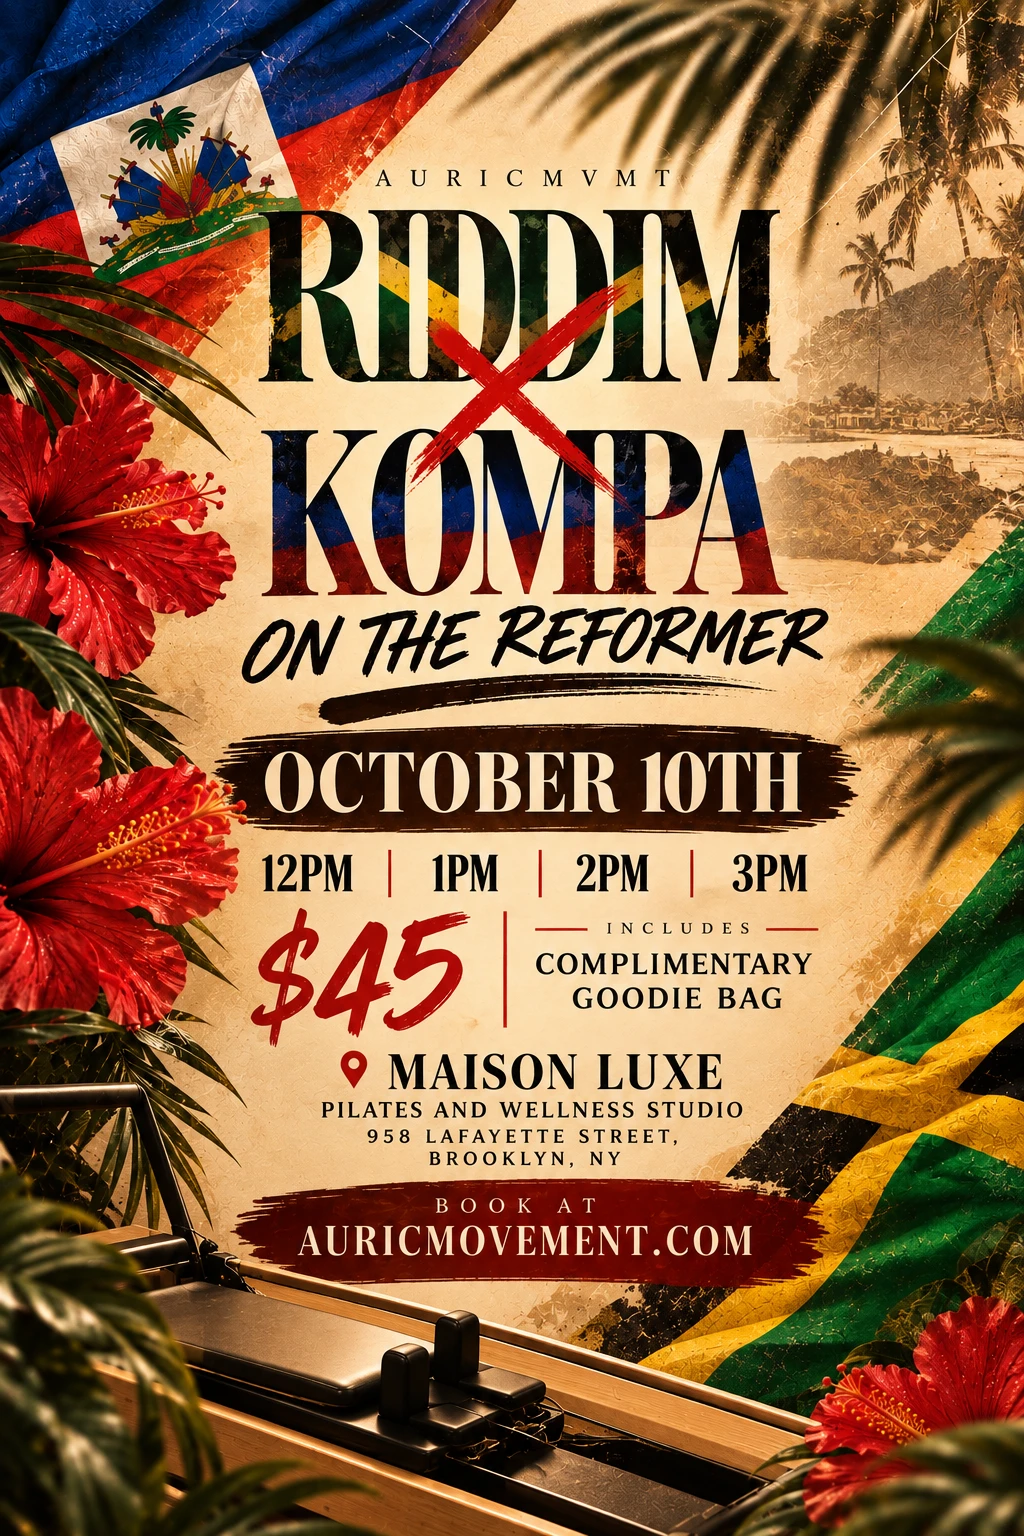
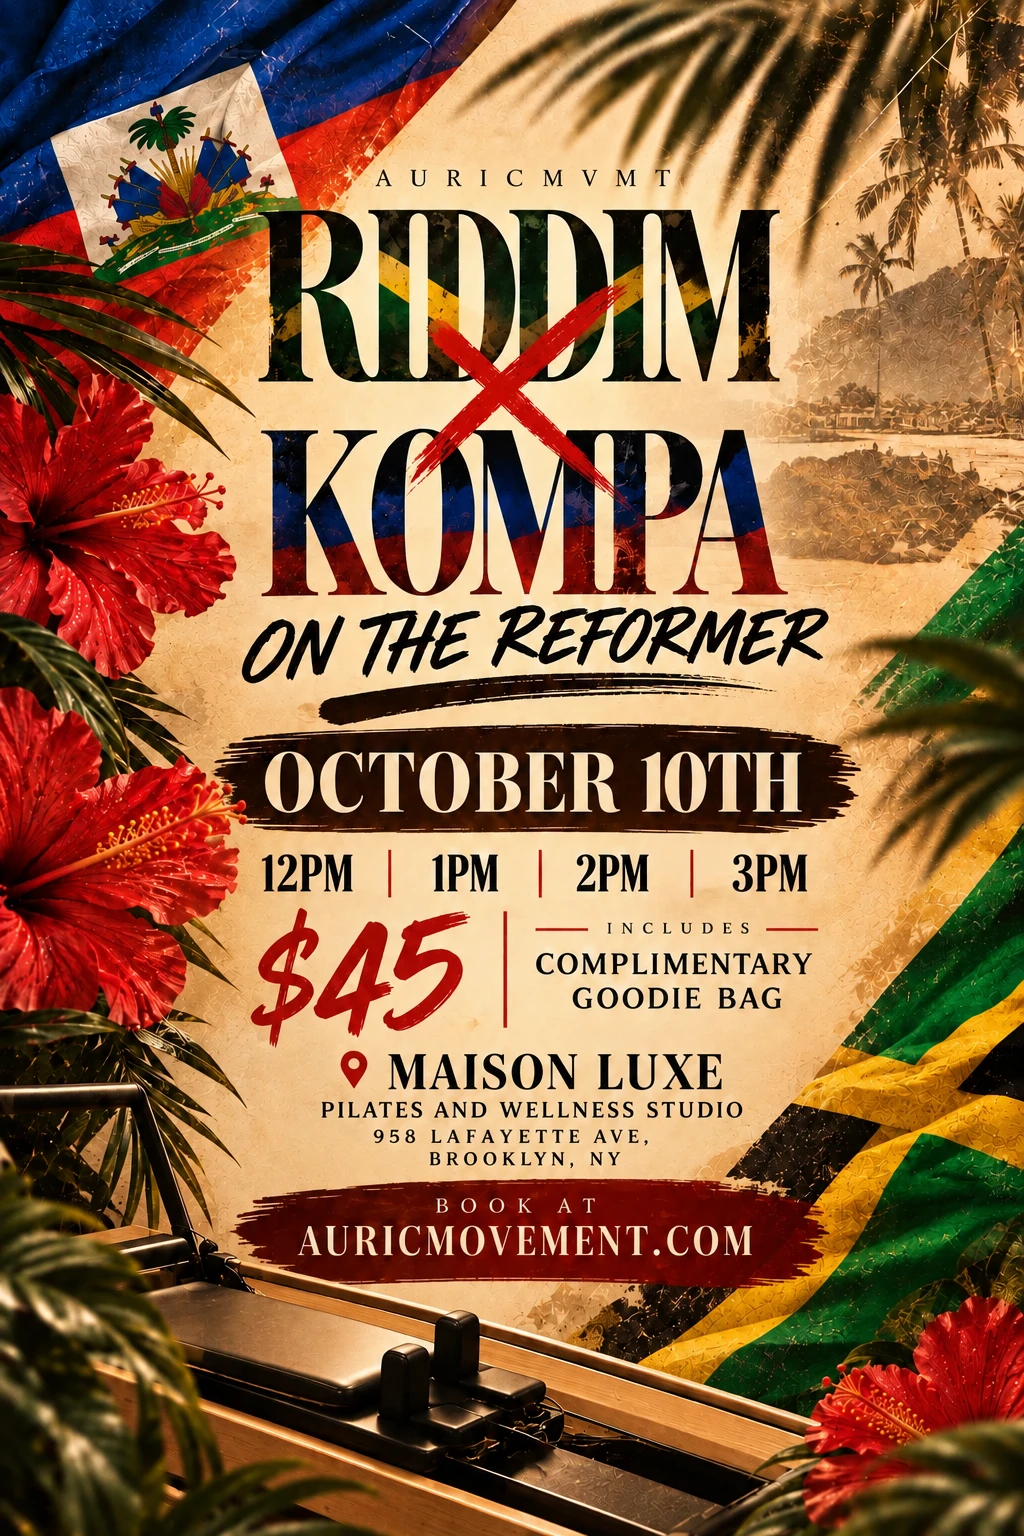
Swap in the new Oct 10 flyer (#503)
Replaces the event-card flyer and rebuilds the JPEG copy the link preview
uses, so a shared link and the site show the same picture.

The new artwork corrects the studio address — it read 958 Lafayette Street,
and Maison Luxe is on Lafayette Ave.

Cache versions bumped (flyer v3 -> v4, share v2 -> v3) on all three
references, including both the og:image and twitter:image tags. Without that
anyone who has already seen the page keeps the old flyer out of cache.

The existing alt text already described this artwork, down to the address and
the four session times, so it is unchanged.

Verified: both files serve 200 at their new versions, and the card image
decodes at the full 1024x1536.

Claude-Session: https://claude.ai/code/session_01C5C3S2hPFNYWpceXrqPaqV

diff --git a/riddim-kompa-oct10/index.html b/riddim-kompa-oct10/index.html
@@ -15,7 +15,7 @@
   <meta property="og:url" content="https://book.auricmovement.com/riddim-kompa-oct10">
   <meta property="og:title" content="Riddim &#215; Kompa on the Reformer &#10022; Brooklyn &mdash; Oct 10">
   <meta property="og:description" content="Haitian &amp; Jamaican inspired reformer Pilates. Saturday, October 10 &middot; four sessions (12, 1, 2 &amp; 3 PM) &middot; Maison Luxe Pilates &amp; Wellness, Brooklyn NY. $45 &middot; 45 minutes &middot; complimentary goodie bag.">
-  <meta property="og:image" content="https://book.auricmovement.com/riddim-kompa-oct10-share.jpg?v=2">
+  <meta property="og:image" content="https://book.auricmovement.com/riddim-kompa-oct10-share.jpg?v=3">
   <meta property="og:image:width" content="1024">
   <meta property="og:image:height" content="1536">
   <meta property="og:image:alt" content="Riddim x Kompa on the Reformer, hosted by Auric Movement at Maison Luxe Pilates & Wellness, Brooklyn. Saturday, October 10, 12, 1, 2 and 3 PM. $45 per person, 45 minutes. Two islands, one rhythm.">
@@ -24,7 +24,7 @@
   <meta name="twitter:card" content="summary_large_image">
   <meta name="twitter:title" content="Riddim &#215; Kompa on the Reformer &#10022; Brooklyn &mdash; Oct 10">
   <meta name="twitter:description" content="Haitian &amp; Jamaican inspired reformer Pilates. Saturday, October 10 &middot; four sessions (12, 1, 2 &amp; 3 PM) &middot; Maison Luxe Pilates &amp; Wellness, Brooklyn NY. $45 &middot; 45 minutes &middot; complimentary goodie bag.">
-  <meta name="twitter:image" content="https://book.auricmovement.com/riddim-kompa-oct10-share.jpg?v=2">
+  <meta name="twitter:image" content="https://book.auricmovement.com/riddim-kompa-oct10-share.jpg?v=3">
 
   <link rel="canonical" href="https://book.auricmovement.com/?book=reformer-o10">
 

diff --git a/index.html b/index.html
@@ -3220,7 +3220,7 @@
       <button type="button" id="event-card-reformer-o10" class="bq-event scroll-reveal" data-event-id="riddim-kompa-brooklyn-2026-10-10" data-event-date="2026-10-10" data-event-name="Riddim &amp; Kompa &#8212; Brooklyn, Oct 10" data-location="brooklyn" data-riddim="true">
         <div data-donor-badge-wrap="1" class="bq-donor-slot"></div>
         <div class="bq-event-photo">
-          <img src="riddim-kompa-oct10-flyer.webp?v=3" alt="Riddim &#215; Kompa on the Reformer &#8212; hosted by Auric Movement at Maison Luxe Pilates and Wellness Studio, 958 Lafayette Ave, Brooklyn NY. Saturday, October 10 &#183; 12, 1, 2 &amp; 3 PM &#183; $45, includes a complimentary goodie bag. Haitian and Jamaican flags, hibiscus and palms over a reformer. Book at auricmovement.com." loading="lazy" decoding="async">
+          <img src="riddim-kompa-oct10-flyer.webp?v=4" alt="Riddim &#215; Kompa on the Reformer &#8212; hosted by Auric Movement at Maison Luxe Pilates and Wellness Studio, 958 Lafayette Ave, Brooklyn NY. Saturday, October 10 &#183; 12, 1, 2 &amp; 3 PM &#183; $45, includes a complimentary goodie bag. Haitian and Jamaican flags, hibiscus and palms over a reformer. Book at auricmovement.com." loading="lazy" decoding="async">
         </div>
         <div class="bq-event-date">10.10.26 &#183; Riddim &amp; Kompa</div>
         <div class="bq-event-name">Riddim &amp; Kompa <em>on the Reformer</em></div>
